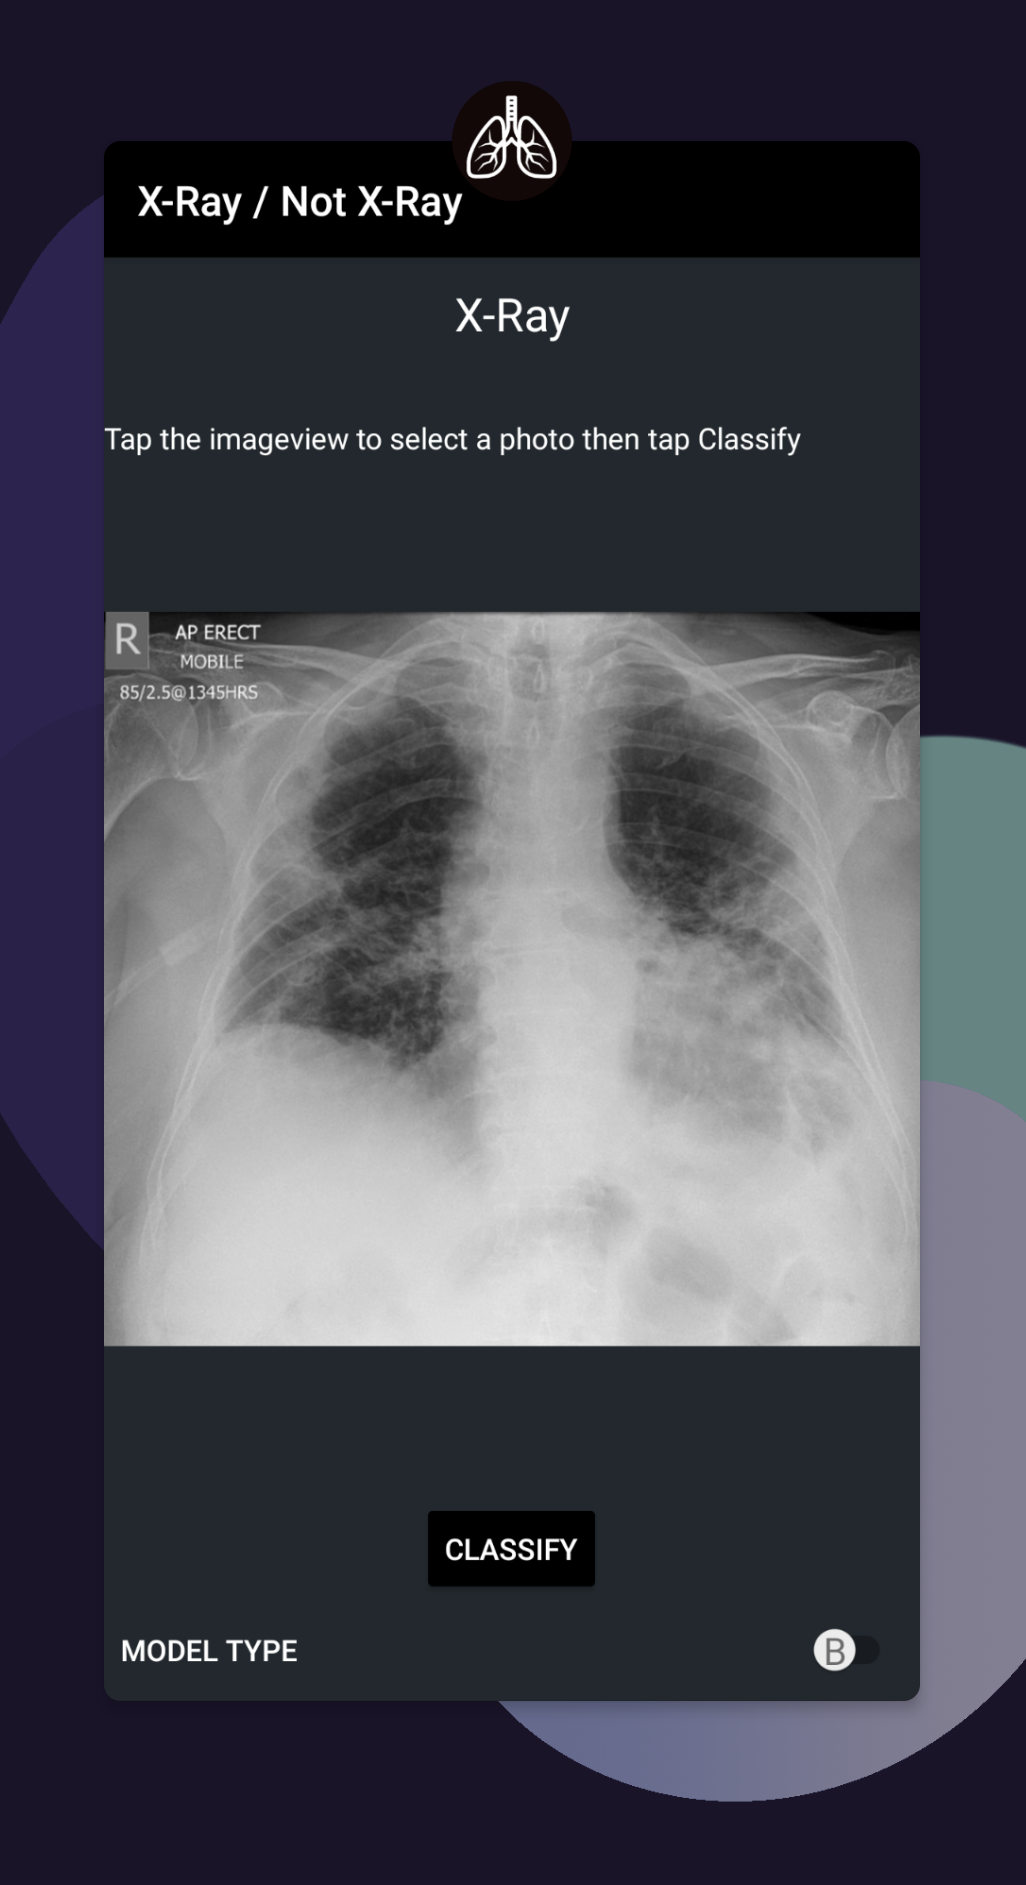
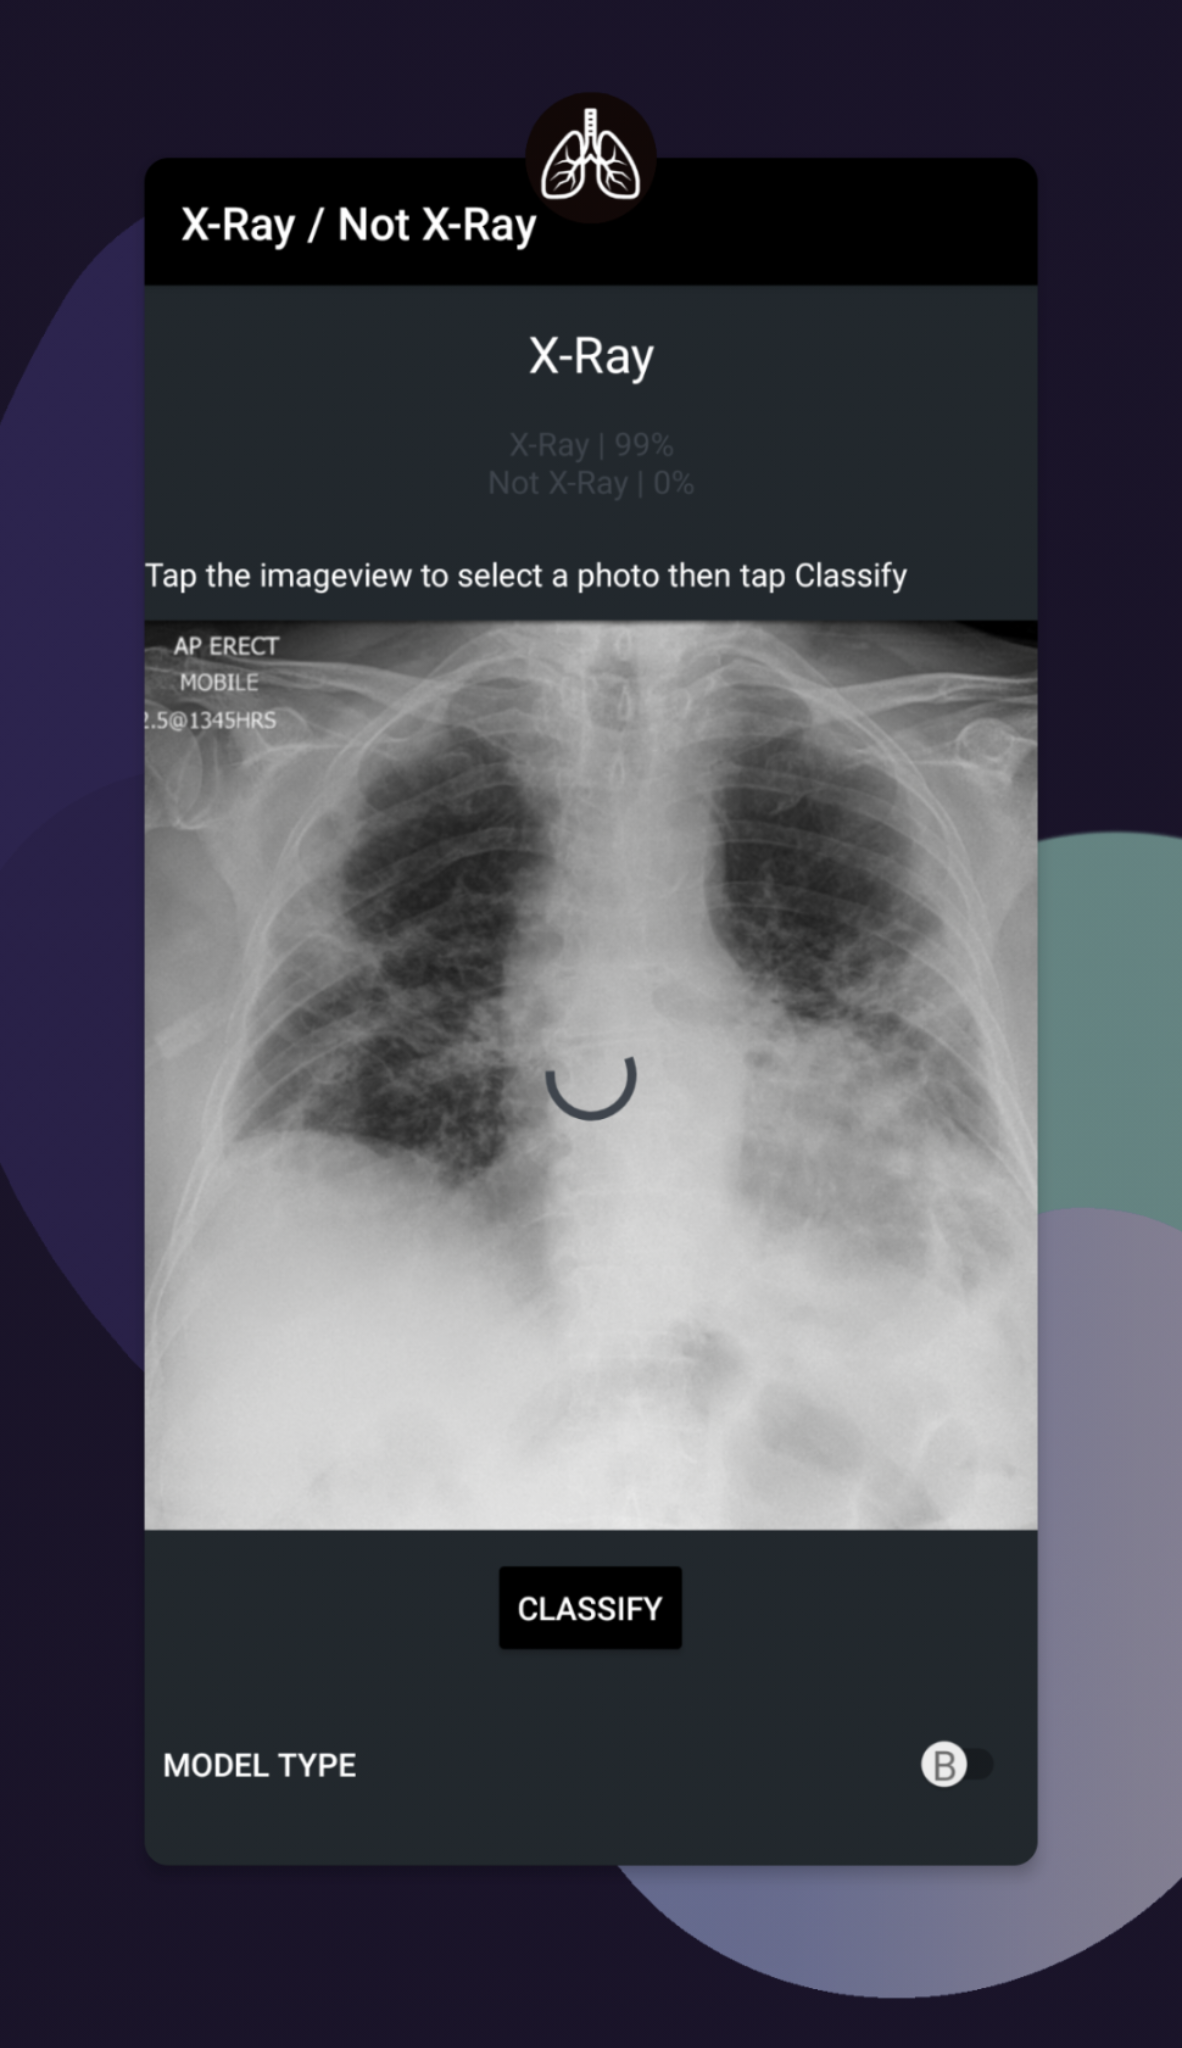
Updated readme and gui

diff --git a/app/src/main/java/com/touchmediaproductions/xrayornot/MLHelper.java b/app/src/main/java/com/touchmediaproductions/xrayornot/MLHelper.java
@@ -202,8 +202,8 @@ public class MLHelper {
         }
         @Override
         public String toString(){
-            return this.getFirst() + " | " + this.getFirstValue() + "\n"
-                    + this.getSecond() + " | " + this.getSecondValue();
+            return this.getFirst() + " | " + (int) this.getFirstValue() + "%\n"
+                    + this.getSecond() + " | " + (int) this.getSecondValue() + "%";
         }
     }
 

diff --git a/README.md b/README.md
@@ -11,6 +11,7 @@ __Use case intended for when a user provides an image and image input validation
 
 
 <p align="center">
+  <img width="200" src="screenshots/screenshot01.png">
   <img width="200" src="screenshots/screenshot02.png">
   <img width="200" src="screenshots/screenshot03.png">
 </p>
@@ -24,5 +25,6 @@ The trained models can be obtained from the assets folder.
 
 |  Type  | Trained on Resolution |  Size |       Model      |
 |:------:|:---------------------:|:-----:|:----------------:|
-| Float  |        500x500        |  40M  | [model_unquant.tflite](/app/src/main/assets/model_unquant.tflite)|
-| Quant  |        500x500        |  12M  | [model.tflite](/app/src/main/assets/model.tflite)|
+| Quant  |        500x500        | 739KB | A [model.tflite](/app/src/main/assets/model.tflite)|
+| Float  |        500x500        | 2.1M  | B [model_unquant.tflite](/app/src/main/assets/model_unquant.tflite)|
+
